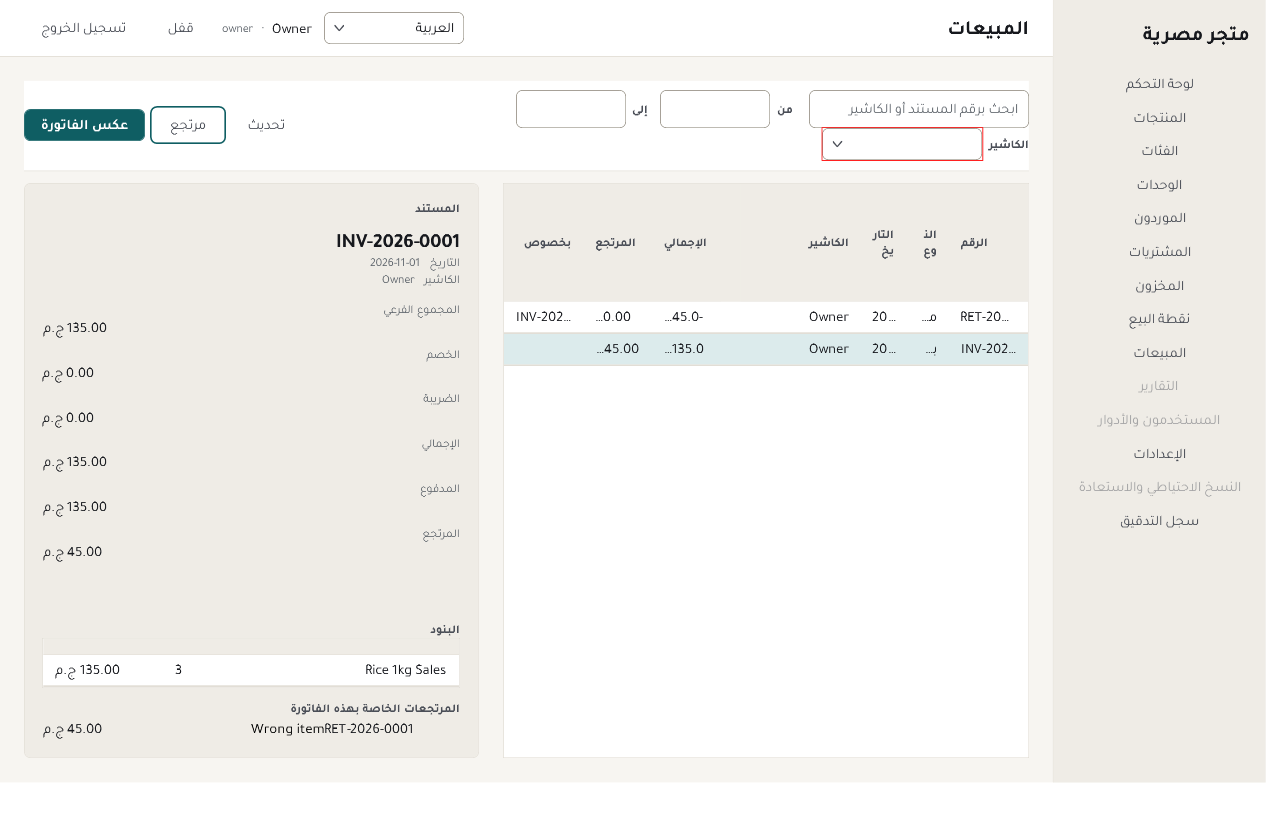
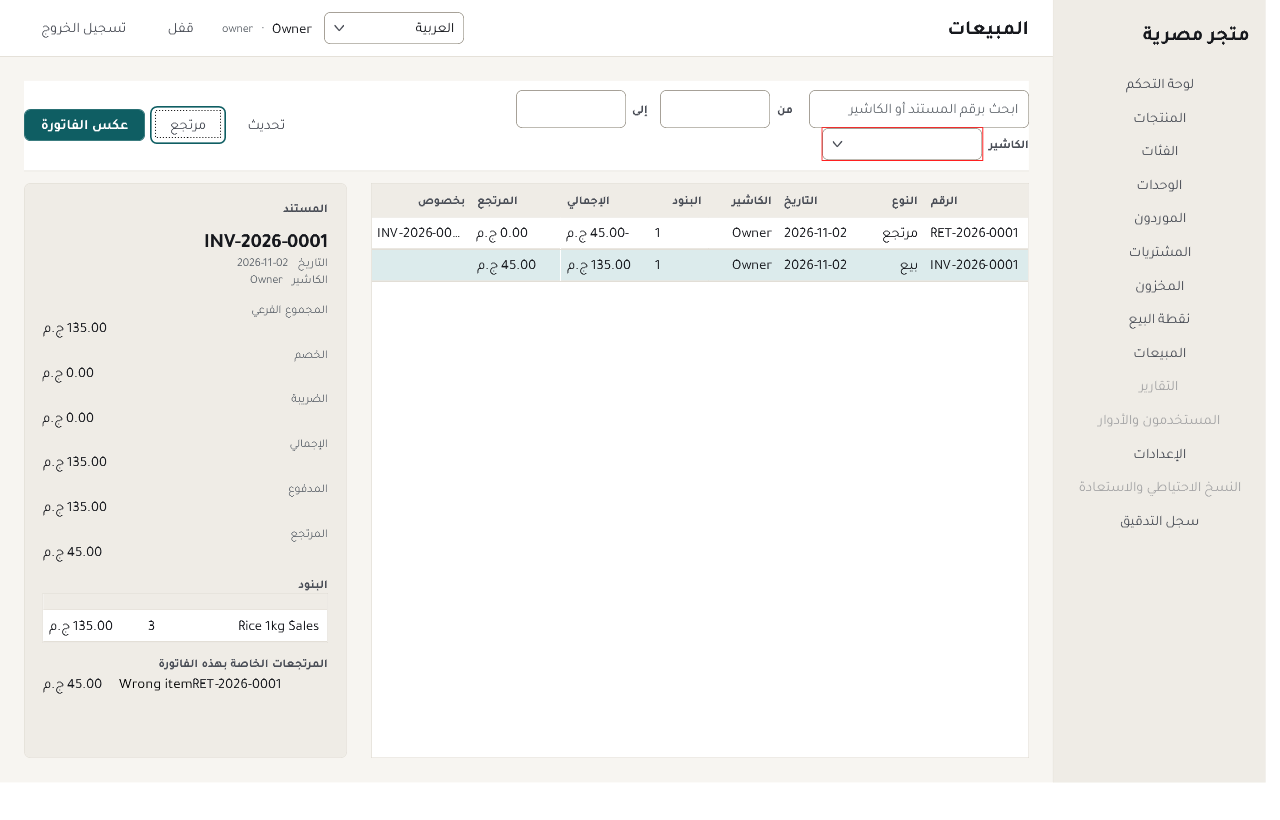
Take the pictures of the sales phase and say what they prove
The script drives the running application through a sale, a return and a reversal, in Arabic and then in English, and it photographs the application drawing its own windows. It picks the register row by the number in the row itself, so a return that carries the number of the invoice it undoes cannot be picked by mistake, and it clicks the scan field the way a person does, because the keys a scanner sends only reach a field that really holds the caret.

The pictures are the ones the last run took: the register with the sale in it, the detail of the invoice on its own, the return dialog filled in, the return as a row of its own with a negative amount, the shelf with the unit that came back on it, the reversal dialog, the register with all four documents on it, and the same register in English.

The report says what the runs found, which is five things the tests could not see, and the phase gate answers in the PRD's own numbering.

Changed region(s): [[0.0312, 0.2439, 0.8125, 0.9451], [0.2188, 0.3659, 0.25, 0.3963], [0.0312, 0.8841, 0.0625, 0.9146]]

diff --git a/docs/phases/PHASE-4-SALES-AND-RETURNS.md b/docs/phases/PHASE-4-SALES-AND-RETURNS.md
@@ -64,6 +64,14 @@ that points back at the invoice through `SalesInvoice.ReversesDocumentId`.
 - A posted invoice can be reversed **once**. The unique index on `ReversesDocumentId` is the
   database's half of that rule.
 
+When part of the invoice has already come back as a return, the reversal takes back **only what is
+left**. The unit the return already put on the shelf is not put back a second time, and the money
+the return already refunded is not refunded a second time, so the two corrections together undo the
+sale exactly once. The reversal's own money is the same pro-rata of the invoice's figures the return
+uses, so the two documents add up to the invoice exactly. An invoice whose every unit has already
+come back has nothing left to reverse, and the reversal is refused rather than taking anything back
+twice.
+
 ### The refund is money, and it is written down like money
 
 Every refund is a payment row of its own, marked `IsRefund`, pointing either at the return or at
@@ -110,6 +118,8 @@ page, so in Arabic the amount comes before the currency in the money columns.
 | The cumulative quantity returned may never exceed the quantity sold | the single comparison inside `PostReturnCommandHandler` |
 | Resellable and damaged are different buckets, and only the resellable one reaches the shelf | `StockMovementType.ReturnRestock`, `StockMovementType.ReturnDamaged` (ADR-0003) |
 | A posted invoice may be reversed only once | the unique index on `SalesInvoice.ReversesDocumentId` |
+| A reversal takes back only what a return has not already taken back | the returned quantity read in `ReverseInvoiceCommandHandler`, and the pro-rata of `SalesRules.RefundForQuantity` |
+| An invoice that has been returned in full cannot be reversed | `SalesErrorCodes.NothingToReverse` |
 | A refund is money and is written down like money | `Payment.IsRefund`, `Payment.SalesReturnId`, `CK_Payments_SingleOwner` |
 | The register's money column nets | `SalesRules.SignedAmount` |
 | A return without a reason is not posted | `SalesErrorCodes.ReasonRequired` |
@@ -121,14 +131,14 @@ page, so in Arabic the amount comes before the currency in the money columns.
 
 ### The automated suite
 
-**322 tests, all passing** (`dotnet test StoreFlow.sln`):
+**333 tests, all passing** (`dotnet test StoreFlow.sln`):
 
 | Project | Tests | Before | What the new ones cover |
 |---|---|---|---|
 | `StoreFlow.Domain.Tests` | 25 | 25 | — |
 | `StoreFlow.Application.Tests` | 110 | 102 | The sales rules on their own: the number of a document, the refund of a whole line and of a part of one, the rounding of that refund, the remainder of a line, the sign the register shows, and the quantity a unit cannot express |
-| `StoreFlow.Infrastructure.Tests` | 86 | 71 | The returns and the reversals against a real SQLite file: the return document and its link, the refund row, the stock that comes back, the damaged bucket, the average that is restored, the cumulative rule, the refused returns, the reversal and its stock, the double reversal that is refused, the register that signs its column, and the immutability trigger that still refuses an edited price |
-| `StoreFlow.Desktop.Tests` | 101 | 101 | The sales screen: every error code becoming a message of its own, the refund the dialog offers being the refund the ledger will post, and the identifiers the smoke script drives the screen by |
+| `StoreFlow.Infrastructure.Tests` | 88 | 71 | The returns and the reversals against a real SQLite file: the return document and its link, the refund row, the stock that comes back, the damaged bucket, the average that is restored, the cumulative rule, the refused returns, the reversal and its stock, the reversal that takes back only what a return has not already taken back, the invoice that has been returned in full and cannot be reversed, the double reversal that is refused, the register that signs its column, and the immutability trigger that still refuses an edited price |
+| `StoreFlow.Desktop.Tests` | 110 | 101 | The sales screen: every error code becoming a message of its own, the refund the dialog offers being the refund the ledger will post, the identifiers the smoke script drives the screen by, and the margin a table with eight columns keeps |
 
 The infrastructure tests are the ones that matter. They run against a real database file with the
 real migrations, so the unique indexes, the check constraints and the triggers are in play.
@@ -158,6 +168,34 @@ English, against a throwaway data folder. It tells one story:
 Every control is found by its automation identifier, so the script does not depend on the wording
 of the interface in either language.
 
+### What the runs found
+
+The smoke script is worth the time it takes because it drives the real application, and it found
+five things the tests could not:
+
+1. **The register came up empty.** The page was built before the documents were asked for, and the
+   view model was never refreshed. The shell now refreshes a page's view model when it shows it.
+2. **The return and the reversal dialogs did not close.** A window has to close itself when its
+   view model asks it to; the view model cannot. Both windows now watch the request and close.
+3. **The dialog's refund stayed at zero.** The refund is the sum of the lines, and nothing told the
+   dialog that a line had changed. Each line now raises a change, and the dialog re-reads the sum.
+4. **The till lost the caret when the page was shown again.** The scan field took the focus the
+   first time the till was opened and never took it back, so a scanner that fired while the cashier
+   was on another page did nothing. The till now takes the caret every time it is shown.
+5. **The cashier filter and the refund method showed the record's generated text**
+   (`SalesCashierOption { Id = 1, DisplayName = Owner }`) instead of the name. The select shows the
+   text of the record, so both records now write their display name, the way every other option
+   record in the application does.
+
+The till's money panel was also cut off at the bottom of a short window, so the button that confirms
+the sale could not be reached. The money scrolls now and the button stays at the bottom of the panel,
+where the cashier's hand expects it.
+
+And the register's eight columns were squeezed into half the screen, so a document number was cut
+through — the one value in the register that has to be read back exactly. The register takes the
+larger share of the screen now, and its cells carry a narrower margin, so the number, the date and
+the amounts stand whole in both languages.
+
 ---
 
 ## What is not in this phase
@@ -182,8 +220,8 @@ of the interface in either language.
   a document — but it means a reader sees two rows for one sale, and has to read the "Against"
   column to see that they belong together.
 - **A return cannot be undone.** A return that was posted by mistake is corrected by a second
-  return of the same goods, which is clumsy but honest: the first return stays on the record. The
-  reversal covers the whole invoice only.
+  return of the same goods, which is clumsy but honest: the first return stays on the record. A
+  reversal undoes the invoice, but only the part of it that no return has already settled.
 - **The cashier filter lists only the people who have posted a sale.** A cashier who has not sold
   anything yet is not in the list, so a shop with several cashiers cannot filter by an empty one.
 - **The register has no column for the cost of goods sold.** The invoice carries the cost

diff --git a/docs/phases/phase4-screens/README.md b/docs/phases/phase4-screens/README.md
@@ -26,8 +26,8 @@ What these pictures were taken to prove, and where to look for it:
   with a **negative** amount, because the money went back to the customer.
 - **The goods went back on the shelf** — `phase4-05` shows the stock after the return: twenty
   bought, three sold, one back.
-- **A reversal is a document of its own** — `phase4-07` shows `REV-2026-0001` under the invoice it
-  undoes, also with a negative amount.
+- **A reversal is a document of its own** — `phase4-07` shows `REV-2026-0001` against the second sale
+  `INV-2026-0002` that it undoes, also with a negative amount.
 
 | Picture | What it shows |
 |---|---|
@@ -37,5 +37,5 @@ What these pictures were taken to prove, and where to look for it:
 | `phase4-04-sales-after-the-return-arabic.png` | The register after the return: the sale and the return, the return with a negative amount and the invoice it belongs to |
 | `phase4-05-stock-after-the-return-arabic.png` | The stock on hand after the return, with the unit that came back on the shelf |
 | `phase4-06-reversal-dialog-arabic.png` | The reversal dialog: the reason, the way the money goes back, and what becomes of the goods |
-| `phase4-07-sales-after-the-reversal-arabic.png` | The register after the reversal: the sale, the reversal and the return, all three on one screen |
+| `phase4-07-sales-after-the-reversal-arabic.png` | The register after the reversal: the two sales, the return and the reversal, all four on one screen |
 | `phase4-08-sales-register-english.png` | The same register in English, with the rail on the **left** and the money as `EGP` |

diff --git a/README.md b/README.md
@@ -98,9 +98,9 @@ Current state of the suite — **299 tests, all passing**:
 
 ### Driving the real application
 
-Four scripts drive the running desktop application through UI Automation and photograph it. They
-are the evidence behind the phase reports, and they are run against a throwaway data folder, so the
-shop's own data is never touched.
+Five harnesses drive the running desktop application through UI Automation. Four of them photograph
+it; they are the evidence behind the phase reports, and they are run against a throwaway data
+folder, so the shop's own data is never touched.
 
 ```powershell
 # The catalogue screens
